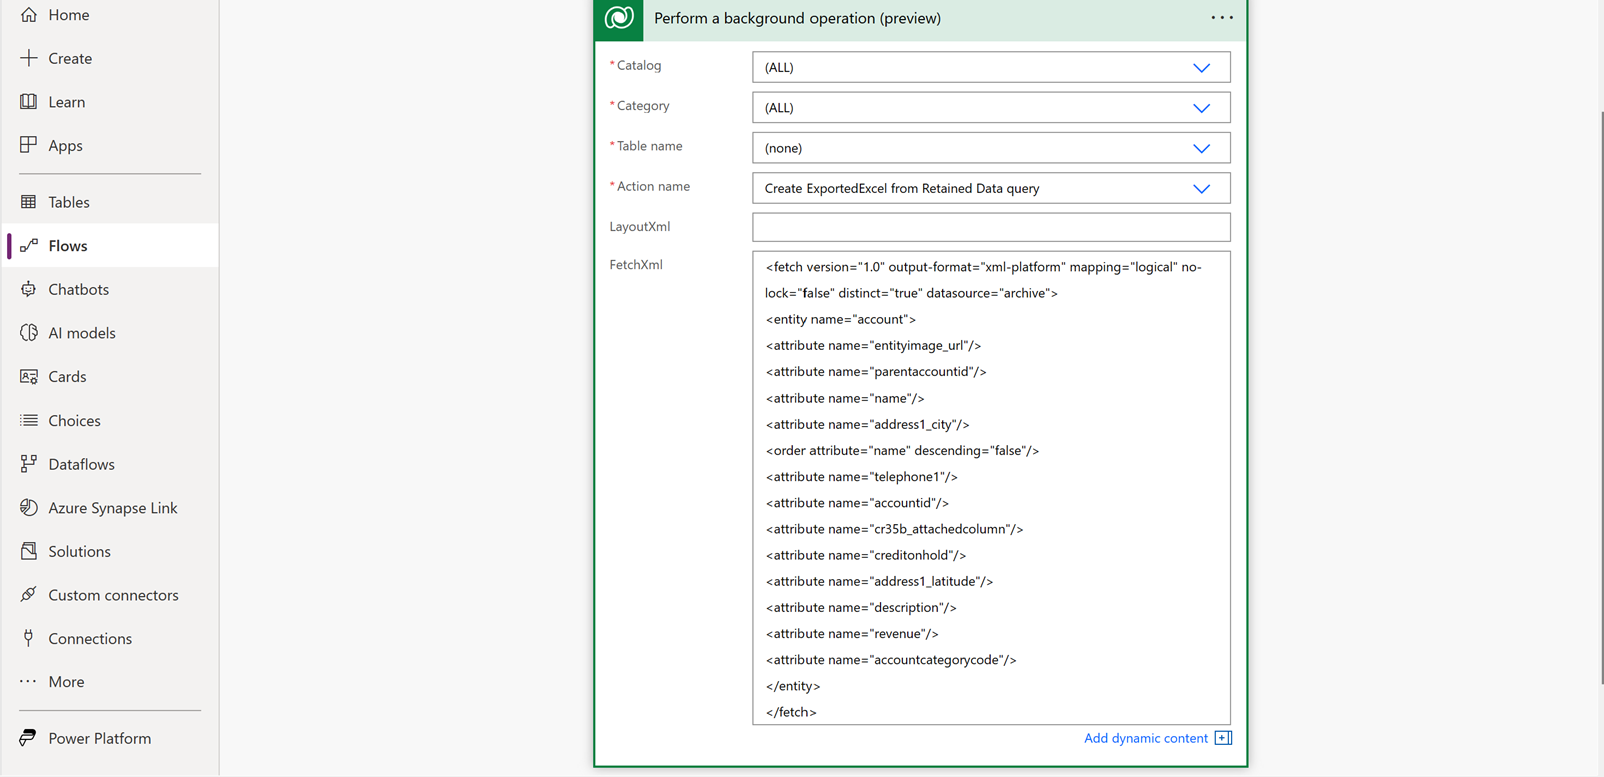
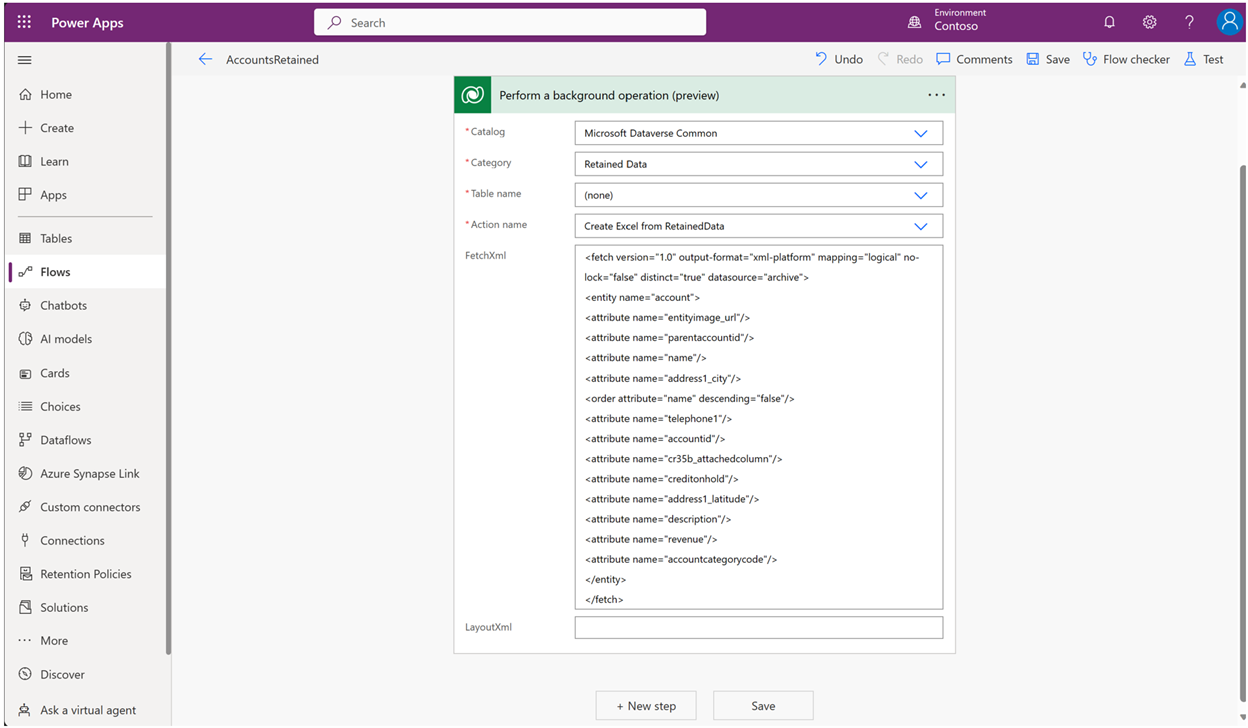
Revised per PM feedback

diff --git a/articles/dataverse/data-retention-flow.md b/articles/dataverse/data-retention-flow.md
@@ -14,7 +14,7 @@ ms.custom: template-how-to
 
 Create a cloud flow to view read-only rows in long term data retention in Microsoft Dataverse. For more information about long term data retention in Dataverse, go to [Dataverse long term data retention overview (preview)](/power-apps/maker/data-platform/data-retention-overview).
 
-The cloud flow described here creates and sends an email that includes an Excel file containing the retained data. If there are retained attachments associated with rows from Dataverse, they are also included as links in the Excel file.
+The cloud flow described here creates and sends an email that includes an Excel file containing the retained data. If there are retained attachments associated with rows from Dataverse, they are also included as links in the Excel file. For more about the privileges required to run this flow, go to [View long term retained data in Microsoft Dataverse](/power-apps/maker/data-platform/data-retention-view)
 
 > [!IMPORTANT]
 > Long term retained data is a preview feature in Microsoft Dataverse.
@@ -56,16 +56,16 @@ The following steps show you how to use an instant flow to create the Excel file
    - **Category**: **Retained Data**
    - **Table name**: **(none)**
    - **Action name**: Select **Enter custom value** and then enter `Create Excel from RetainedData`
-   - LayoutXML: Leave blank
    - **FetchXml**: Paste in the FetchXML created earlier from the advanced find query.
+   - LayoutXML: Leave blank
    :::image type="content" source="media/data-retention-flow/data-retention-flow2.png" alt-text="Create action that includes your retained data query FetchXML":::
 1. Select **New step**.
 1. For **Choose an operation**, select **Condition**, and then select the **Expression** tab.
 1. Add the following expression:
-   - **outputs**: `('Perform_a_background_operation_(preview)')?['body/backgroundOperationStatusCode’]`
+   - `outputs('Perform_a_background_operation_(preview)')?['body/backgroundOperationStatusCode’]`
    - **is equal to**: *30*
+   :::image type="content" source="media/data-retention-flow/data-retention-flow3.png" alt-text="Add expression to flow.":::
 1. In the **If yes** box, select **Add an action**.
-   :::image type="content" source="media/data-retention-flow/data-retention-flow3.png" alt-text="Add and action for the condition":::
 1. On the **Actions** tab, select **Download a file or an image**.
 1. Select the following values:
    - **Table name**: **RetainedData Excels**
@@ -73,7 +73,7 @@ The following steps show you how to use an instant flow to create the Excel file
    - **Column name**: **ExcelContent**
    :::image type="content" source="media/data-retention-flow/data-retention-flow4.png" alt-text="Add values for Excel download file":::
 
-1. On the **If yes** condition, select **Add action** to add another action that sends an email with the Excel file attachment.
+1. Select **Add action** to add another action that sends an email with the Excel file attachment.
 1. For **Choose an operation**,  select **Office 365 Outlook**, and the for the action select **Send an email (V2)**.
 1. Enter the following required values for the email.
    - **To**: Enter a valid email address for the email recipient.
@@ -87,7 +87,7 @@ The following steps show you how to use an instant flow to create the Excel file
    - Under **Actions**, select **Delete a row**.
    - Choose the following values:
       - **Table name**: **RetainedData Excels**
-      - **Row ID**: **ExportRetainedDataResponse ExportedExcelID**
+      - **Row ID**: Select **Add dynamic content**, and then select **ExportRetainedDataResponse ExportedExcelID**.
 1. Select **Save**
 1. Run the flow.
 
